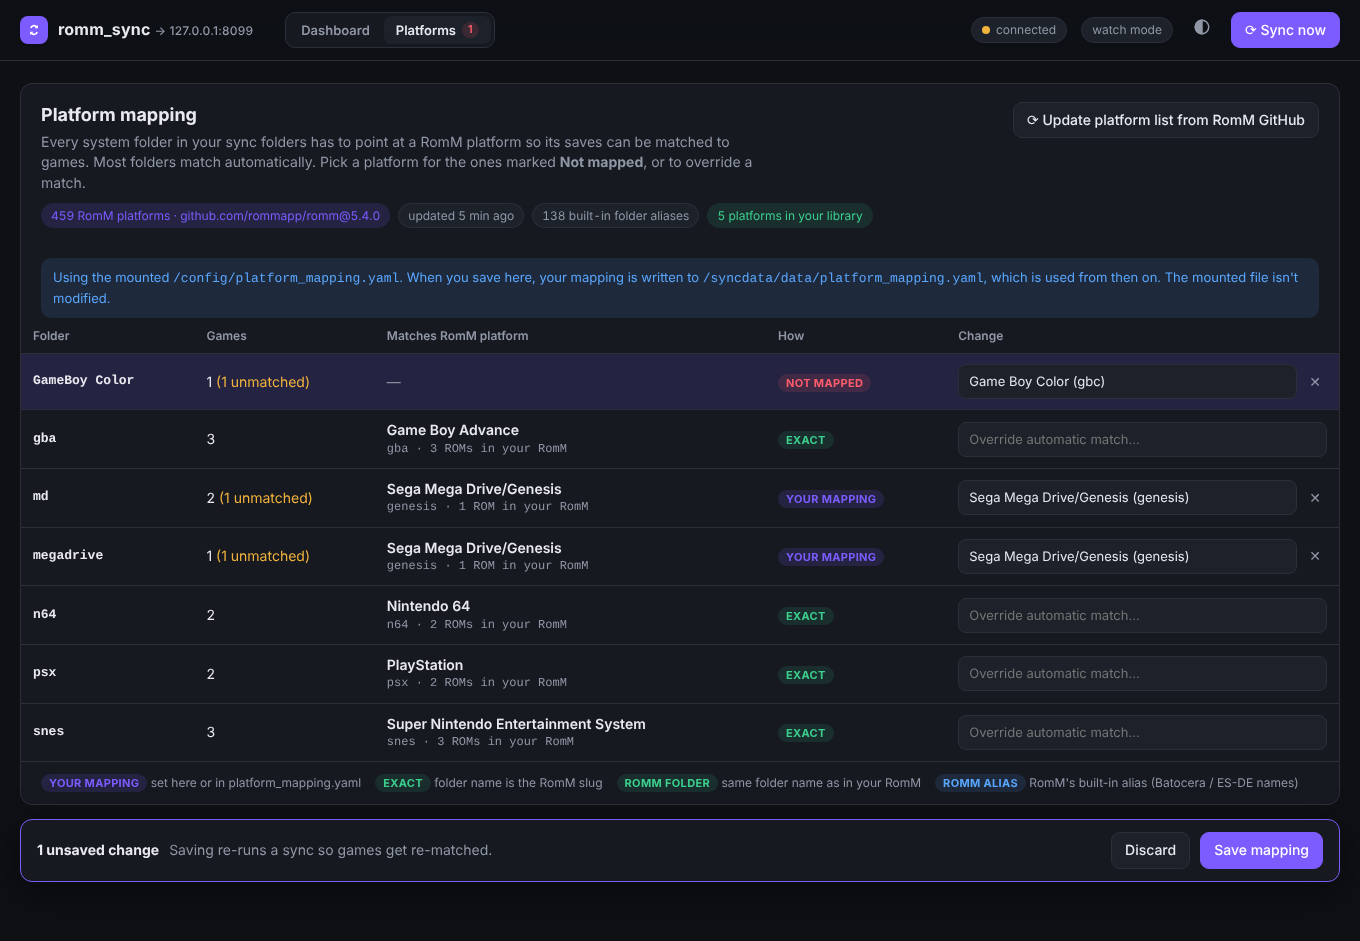
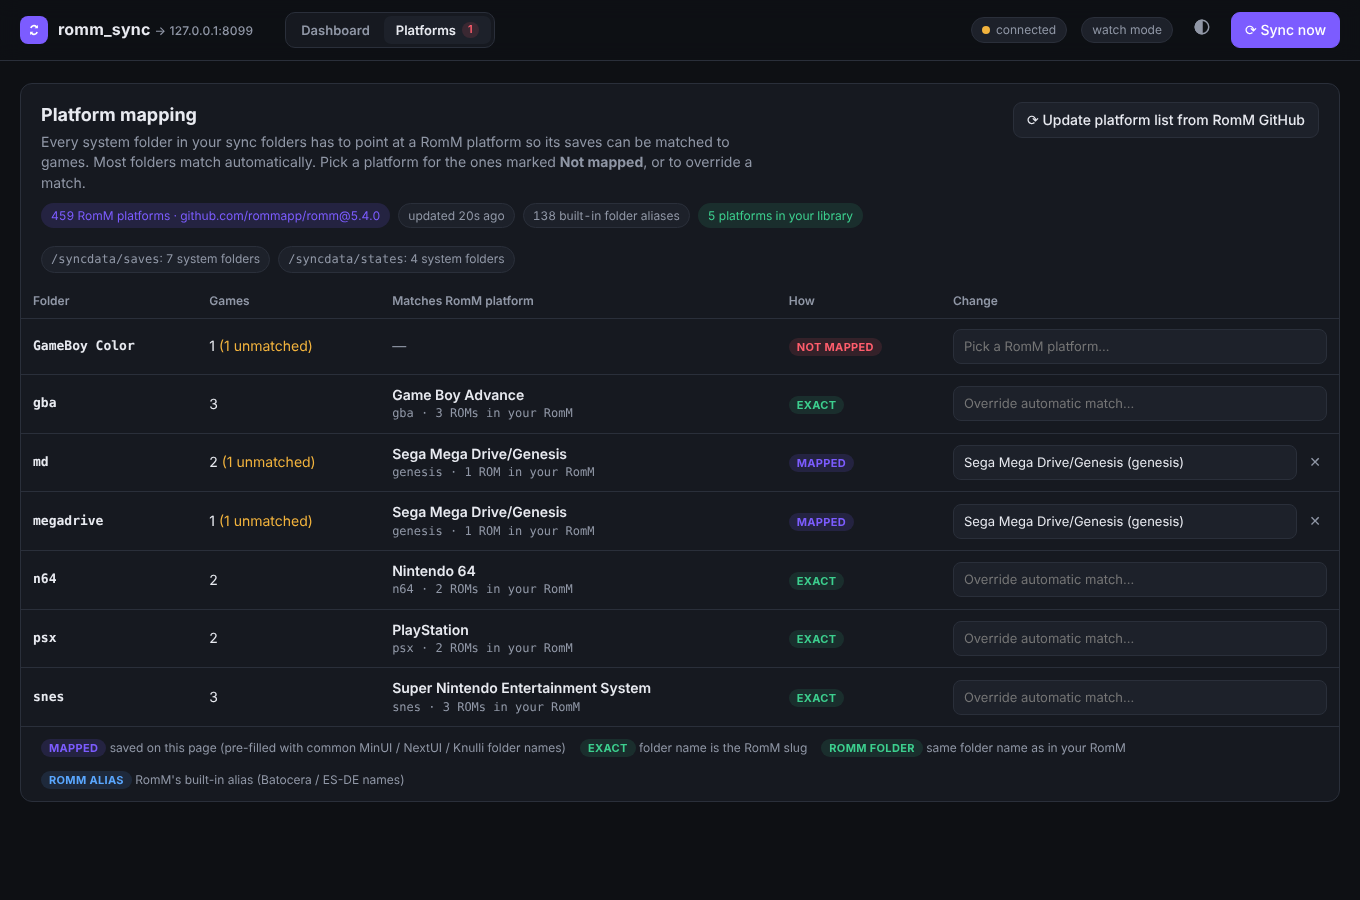
Manage platform mapping only in the UI, pre-filled from the built-in defaults
- Seed the saved mapping on first start (2.1.x mapping > mounted file > built-in defaults)
- Store it as platform_mapping.ui.yaml so a Docker-created platform_mapping.yaml folder can't collide
- Remove yaml references from the UI, template and compose files
- Show sync folder contents on the Platforms page and at startup
- Hide the empty save bar; wait for the first platform catalog download
- VERSION 2.3.0

Claude-Session: https://claude.ai/code/session_011dFVJ7zQhCDyrQS43g4wte

diff --git a/src/web_static/index.html b/src/web_static/index.html
@@ -24,6 +24,7 @@
   --accent:#6a48f5; --ok:#139a63; --warn:#b97a00; --bad:#d6283b; --info:#1f6fd1; --shadow:0 10px 40px rgba(20,24,40,.15);
 }
 *{box-sizing:border-box}
+[hidden]{display:none!important}
 html,body{margin:0;background:var(--bg);color:var(--text);font:14px/1.45 system-ui,-apple-system,"Segoe UI",Roboto,sans-serif}
 button{font:inherit;color:inherit}
 a{color:var(--accent)}
@@ -325,7 +326,7 @@ html,body{overflow-x:hidden}
         <tbody id="pf-rows"><tr><td colspan="5" class="empty">Loading…</td></tr></tbody>
       </table></div>
       <div class="legend-row">
-        <span><span class="how how-mapping">Your mapping</span> set here or in platform_mapping.yaml</span>
+        <span><span class="how how-mapping">Mapped</span> saved on this page (pre-filled with common MinUI / NextUI / Knulli folder names)</span>
         <span><span class="how how-exact">Exact</span> folder name is the RomM slug</span>
         <span><span class="how how-romm-folder">RomM folder</span> same folder name as in your RomM</span>
         <span><span class="how how-romm-alias">RomM alias</span> RomM's built-in alias (Batocera / ES-DE names)</span>
@@ -675,7 +676,7 @@ function renderActivity(d){
 function render(){ const d = state.data; if(!d) return; renderStatus(d); renderApprovals(); renderSystems(d); renderGames(d); renderActivity(d); }
 
 // ---------- platforms view ----------
-const HOW = {mapping:"Your mapping", exact:"Exact", "romm-folder":"RomM folder", "romm-alias":"RomM alias", none:"Not mapped"};
+const HOW = {mapping:"Mapped", exact:"Exact", "romm-folder":"RomM folder", "romm-alias":"RomM alias", none:"Not mapped"};
 const pf = { data:null, edits:{}, optionsFor:{} };
 function optLabel(p){ return `${p.name} (${p.slug})`; }
 function slugFromInput(v){
@@ -698,8 +699,21 @@ function renderPlatforms(){
     `<span class="chip ok">${lib} platform${lib===1?"":"s"} in your library</span>`,
   ].join("");
   const notes = [];
-  if (d.mapping_error) notes.push(`<div class="notice bad">Your mapping file couldn't be read (${esc(d.mapping_error)}). Saving here writes a fresh one.</div>`);
-  if (!d.using_ui_file && d.mapping_file) notes.push(`<div class="notice" style="background:var(--info-bg);color:var(--info)">Using the mounted <code>${esc(d.mapping_file)}</code>. When you save here, your mapping is written to <code>${esc(d.ui_mapping_file)}</code>, which is used from then on. The mounted file isn't modified.</div>`);
+  if (d.mapping_error) notes.push(`<div class="notice bad">Your saved mapping couldn't be read (${esc(d.mapping_error)}). Saving on this page replaces it.</div>`);
+  const sf = d.sync_folders || [];
+  const sfChips = sf.map(f => {
+    if (!f.exists) return `<span class="chip bad"><code>${esc(f.path)}</code> doesn't exist</span>`;
+    if (f.error) return `<span class="chip bad"><code>${esc(f.path)}</code>: ${esc(f.error)}</span>`;
+    const cls = f.folders.length ? "" : "warn";
+    return `<span class="chip ${cls}"><code>${esc(f.path)}</code>: ${plural(f.folders.length,"system folder")}${f.files?`, ${plural(f.files,"loose file")}`:""}</span>`;
+  }).join("");
+  if (sf.length) notes.push(`<div class="pf-meta" style="margin:0 0 10px">${sfChips}</div>`);
+  if (!d.folders.length) {
+    const loose = sf.some(f => f.files > 0);
+    notes.push(`<div class="notice">No system folders were found inside your sync folders. Saves need to be organised one folder per system, e.g. <code>${esc((sf[0]||{}).path||"/syncdata/saves")}/snes/Game.srm</code>.
+      ${loose ? "Files were found directly in the sync folder, without a system subfolder; those can't be matched to a platform." :
+        "The folder looks empty from inside the container, which usually means the host path mapped to it is wrong (Docker creates an empty folder when a host path doesn't exist). Check the <b>Saves folder</b> / <b>States folder</b> paths in the container settings."}</div>`);
+  }
   $("#pf-notices").innerHTML = notes.join("");
 
   $("#pf-options").innerHTML = d.platforms.map(p => `<option value="${esc(optLabel(p))}">${p.in_library?"★ in your RomM · "+p.rom_count+" ROMs":""}</option>`).join("");

diff --git a/src/platforms.py b/src/platforms.py
@@ -158,22 +158,87 @@ def ensure_catalog(romm_version: Optional[str] = None, force: bool = False) -> d
 
 # region mapping file
 def ui_mapping_file() -> Path:
+    # Deliberately NOT "platform_mapping.yaml": the Unraid template's default host path for the mounted
+    # mapping file is inside the appdata folder that is also /data. If that file was missing, Docker
+    # created a *folder* called platform_mapping.yaml there, which would collide with this file.
+    return data_dir() / "platform_mapping.ui.yaml"
+
+
+def legacy_ui_mapping_file() -> Path:
+    """Where 2.1.x saved the UI mapping."""
     return data_dir() / "platform_mapping.yaml"
 
 
-def effective_mapping_path(mounted: Optional[Path]) -> Optional[Path]:
-    """The UI-managed file wins once it exists; the mounted file is the starting point."""
-    ui = ui_mapping_file()
-    if ui.exists():
-        return ui
-    if mounted is not None and mounted.is_file():
-        return mounted
-    if mounted is not None and mounted.is_dir() and not getattr(effective_mapping_path, "_warned", False):
-        effective_mapping_path._warned = True
-        logger.warning(f"{mounted} is a folder, not a file. Docker creates an empty folder when the mapped "
-                       "file doesn't exist on the host. Either download platform_mapping.yaml to that host path "
-                       "(delete the folder first) or remove the mapping and use the dashboard's Platforms page.")
+def _warn_folder_once(path: Path):
+    key = str(path)
+    warned = getattr(_warn_folder_once, "seen", set())
+    if key in warned:
+        return
+    warned.add(key)
+    _warn_folder_once.seen = warned
+    logger.warning(f"{path} is a folder, not a file — Docker creates an empty folder when a mapped file doesn't "
+                   "exist on the host. It's ignored. You can delete it, and either put platform_mapping.yaml there "
+                   "or remove that path mapping and use the dashboard's Platforms page.")
+
+
+def default_mapping_file() -> Path:
+    """Folder-name defaults from the original project (MinUI/NextUI, Knulli…), shipped in the image."""
+    return Path(__file__).resolve().parent.parent / "platform_mapping.yaml"
+
+
+def effective_mapping_path(mounted: Optional[Path] = None) -> Optional[Path]:
+    """The saved mapping (edited on the Platforms page). Older locations are only read until it exists."""
+    for candidate in (ui_mapping_file(), legacy_ui_mapping_file(), mounted):
+        if candidate is None:
+            continue
+        if candidate.is_file():
+            return candidate
+        if candidate.is_dir():
+            _warn_folder_once(candidate)
     return None
+
+
+def ensure_mapping_seeded(mounted: Optional[Path] = None) -> None:
+    """Create the saved mapping on first start, pre-filled from (in order) a mapping saved by 2.1.x,
+    a mounted platform_mapping.yaml, or the defaults shipped with the app."""
+    if ui_mapping_file().is_file():
+        return
+    for source, label in ((legacy_ui_mapping_file(), "previously saved mapping"),
+                          (mounted, "mounted platform_mapping.yaml"),
+                          (default_mapping_file(), "built-in defaults")):
+        if source is not None and source.is_file():
+            try:
+                mapping = load_mapping(source)
+            except Exception as e:
+                logger.warning(f"Couldn't read {source} ({e}); trying the next source.")
+                continue
+            save_mapping(mapping)
+            logger.info(f"Platform mapping created from the {label} ({len(mapping)} platforms). "
+                        "Edit it on the dashboard's Platforms page.")
+            return
+    save_mapping({})
+
+
+def sync_folder_report(sync_dirs: List[Path]) -> List[dict]:
+    """What the app can see in each sync folder — for the Platforms page and the startup log."""
+    out = []
+    for d in sync_dirs:
+        if d is None:
+            continue
+        info = {"path": str(d), "exists": d.exists(), "folders": [], "files": 0, "hidden": []}
+        if d.exists():
+            try:
+                for p in sorted(d.iterdir(), key=lambda x: x.name.lower()):
+                    if p.name.startswith("."):
+                        info["hidden"].append(p.name)
+                    elif p.is_dir():
+                        info["folders"].append(p.name)
+                    else:
+                        info["files"] += 1
+            except PermissionError as e:
+                info["error"] = f"permission denied ({e})"
+        out.append(info)
+    return out
 
 
 def load_mapping(path: Optional[Path]) -> Dict[str, List[str]]:
@@ -189,11 +254,8 @@ def load_mapping(path: Optional[Path]) -> Dict[str, List[str]]:
     return out
 
 
-HEADER = """# Platform mapping for romm_sync — managed by the web UI (Platforms page).
-# <romm platform slug>:
-#   - <local folder name>
-# Folder names are matched case-insensitively. Folders that already match a RomM slug,
-# a folder name in your RomM library, or one of RomM's built-in aliases don't need an entry.
+HEADER = """# romm_sync platform mapping — edit this on the dashboard's Platforms page, not by hand.
+# <romm platform slug>: [<local folder name>, ...]   (folder names are case-insensitive)
 """
 
 

diff --git a/romm_sync.py b/romm_sync.py
@@ -35,8 +35,27 @@ def initialize_romm_sync():
     # RomM's platform list + folder aliases (from GitHub, cached in /data). In the background so a
     # server without internet access never delays startup.
     from src import platforms as platform_catalog
-    threading.Thread(target=lambda: platform_catalog.ensure_catalog(app_cfg.ROMM_CREDENTIALS.version()),
-                     name="platform-catalog", daemon=True).start()
+    catalog_thread = threading.Thread(target=lambda: platform_catalog.ensure_catalog(app_cfg.ROMM_CREDENTIALS.version()),
+                                      name="platform-catalog", daemon=True)
+    catalog_thread.start()
+    if not platform_catalog.get_catalog().get("platforms"):
+        # First run: give the download a moment so the first sync can already use RomM's folder aliases.
+        catalog_thread.join(timeout=30)
+
+    # Say what the sync folders look like from inside the container (most setup problems show up here).
+    for f in platform_catalog.sync_folder_report([app_cfg.SAVE_SYNC_DIR, app_cfg.STATE_SYNC_DIR, app_cfg.ALL_SYNC_DIR]):
+        if not f["exists"]:
+            logger.error(f"Sync folder {f['path']} doesn't exist inside the container.")
+        elif f.get("error"):
+            logger.error(f"Sync folder {f['path']}: {f['error']}")
+        elif not f["folders"]:
+            logger.warning(f"Sync folder {f['path']} has no system subfolders"
+                           + (f" ({f['files']} loose files)." if f["files"] else " — it's empty. Check the host path mapped to it."))
+        else:
+            shown = ", ".join(f["folders"][:12]) + (", …" if len(f["folders"]) > 12 else "")
+            logger.info(f"Sync folder {f['path']}: {len(f['folders'])} system folders ({shown})")
+    platform_catalog.effective_mapping_path(app_cfg.PLATFORM_MAP_PATH)  # warns about folder-instead-of-file mounts
+    platform_catalog.ensure_mapping_seeded(app_cfg.PLATFORM_MAP_PATH)
 
     romm = app_cfg.ROMM_CREDENTIALS
     logger.info(f"Connecting to RomM at {romm.url} (auth: {romm.auth_type})...")

diff --git a/src/library_classes.py b/src/library_classes.py
@@ -43,7 +43,7 @@ class RetroGameServer:
             data = None
 
             if platform_map_path is None:
-                logger.debug("No platform mapping file; using automatic platform matching only.")
+                logger.debug("No saved platform mapping; using automatic platform matching only.")
                 return {}
 
             if platform_map_path is not None:
@@ -537,7 +537,7 @@ class LibraryScanner:
                     game.set_romm_data(matching_game_entry[0])
                 else:
                     # Game not found in ROMM library
-                    logger.warning(f"Could not match {game.name} with platform '{game.platform}' to ROMM server. Check your platform_mapping.yaml and verify that this game is on the ROMM server.")
+                    logger.warning(f"Could not match {game.name} with platform '{game.platform}' to ROMM server. Check this folder on the Platforms page and that the game is in your RomM library.")
                     game.is_matched = False
 
             else:

diff --git a/src/config.py b/src/config.py
@@ -161,7 +161,6 @@ class Config:
 
         # Validate platform mapping file (optional - will fallback to exact matching)
         if (self.PLATFORM_MAP_PATH is not None) and (not self.PLATFORM_MAP_PATH.exists()):
-            logger.warning(f"Platform mapping file not found: {self.PLATFORM_MAP_PATH}. Will use exact platform slug matching only.")
             self.PLATFORM_MAP_PATH = None  # this allows NO platform map path
         
         if errors:

diff --git a/src/web.py b/src/web.py
@@ -236,6 +236,7 @@ def create_app(cfg) -> FastAPI:
             "using_ui_file": path == pf.ui_mapping_file(),
             "mounted_file": str(cfg.PLATFORM_MAP_PATH) if cfg.PLATFORM_MAP_PATH else None,
             "mapping_error": mapping_error,
+            "sync_folders": pf.sync_folder_report(_sync_dirs()),
         }
 
     @app.get("/api/platforms")

diff --git a/README.md b/README.md
@@ -113,14 +113,13 @@ This doesn't download ROMs or manage your library. For devices that can run a re
    - **Saves folder** / **States folder**: your Syncthing folders, e.g. `/mnt/user/syncthing/saves`
    - **App data**: `/mnt/user/appdata/romm-sync`
    - **RomM URL** and **RomM API token**
-3. *(Optional)* Download [`platform_mapping.yaml`](platform_mapping.yaml) into `/mnt/user/appdata/romm-sync/`. You can also skip it and map folders on the dashboard's **Platforms** page.
-4. **Apply**, then click the container icon → **WebUI**.
+3. **Apply**, then click the container icon → **WebUI**.
 
 If your saves and states live in **one** folder: switch to **Advanced View**, remove the States folder path and the `SAVE_SYNC_FOLDER` / `STATE_SYNC_FOLDER` variables, change the Saves folder's container path to `/syncdata`, and add a variable `ALL_SYNC_FOLDER` = `/syncdata`.
 
 ## Docker Compose
 
-Download `docker-compose.yml`, `.env.example` and `platform_mapping.yaml` to a folder, edit `.env.example` (see below), then:
+Download `docker-compose.yml` and `.env.example` to a folder, edit `.env.example` (see below), then:
 
 ```bash
 docker compose up -d
@@ -220,20 +219,14 @@ Each system folder in your sync folders (`snes`, `md`, `Nintendo 64`, …) has t
 
 Folders are resolved in this order, and most never need a mapping:
 
-1. **Your mapping**: chosen on the Platforms page (or in `platform_mapping.yaml`)
+1. **Mapped**: chosen on the Platforms page (pre-filled with common folder names)
 2. **Exact**: the folder name is a RomM platform slug (`snes`, `gba`, `n64`…)
 3. **RomM folder**: the folder has the same name as that platform's folder in *your* RomM library
 4. **RomM alias**: one of RomM's built-in folder aliases for Batocera / RetroBat / ES-DE names (`megadrive`, `amstradcpc`, `atarilynx`…)
 
 **Where the platform list comes from:** the full list of platforms RomM supports (459 at the time of writing) and RomM's folder aliases are downloaded from GitHub. Slugs and aliases come from [`rommapp/romm`](https://github.com/rommapp/romm), fetched at the tag that matches your RomM server's version when that tag exists, with display names from [`rommapp/docs`](https://github.com/rommapp/docs). The list is cached in `/data/romm_platforms.json` and refreshed weekly, or whenever you click **Update platform list from RomM GitHub**. If GitHub can't be reached, the cached list is used. In the picker, platforms that are already in your RomM library are listed first.
 
-**The mapping file:** saving on the Platforms page writes `/data/platform_mapping.yaml`. If you also mount a `platform_mapping.yaml` (the original setup), it's used until you first save in the UI. After that it's only the starting point and is never modified. The format is unchanged:
-```yaml
-genesis:        # RomM platform slug
-  - md          # your folder names (case-insensitive)
-  - megadrive
-```
-The bundled [`platform_mapping.yaml`](platform_mapping.yaml) (from the original project) covers common MinUI/NextUI and Knulli folder names. With the Platforms page it's optional.
+**Starting point:** on first start the mapping is pre-filled with the common MinUI/NextUI and Knulli folder names from the original project (for example `md` and `megadrive` → Sega Mega Drive/Genesis, `sfc` → SNES). After that you manage it only on the Platforms page. Remove an entry with ✕ to fall back to automatic matching. It's stored in `/data`, so it survives updates.
 
 See https://docs.romm.app/latest/Platforms-and-Players/Supported-Platforms/ for RomM's supported platforms.
 

diff --git a/CHANGELOG.md b/CHANGELOG.md
@@ -1,5 +1,19 @@
 # Changelog
 
+## 2.3.0 — mapping lives in the UI
+
+### Changed
+- The platform mapping is managed only on the Platforms page. On first start it's pre-filled with the original project's folder-name defaults (or a mapping you saved or mounted before), and no file needs to be mounted. The Unraid template and compose files no longer mount `platform_mapping.yaml`.
+- The interface no longer refers to `platform_mapping.yaml`. "Your mapping" is now labelled **Mapped**.
+
+### Fixed
+- The saved mapping no longer collides with a `platform_mapping.yaml` *folder* that Docker creates in the appdata folder when the mapped file is missing (it's now stored as `platform_mapping.ui.yaml`).
+- The "unsaved changes" bar no longer shows when there are no changes.
+- On first install, the first sync waits briefly for RomM's folder aliases so those folders match right away.
+
+### Added
+- The Platforms page and the startup log show what each sync folder contains, with a clear explanation when one is empty or missing system subfolders.
+
 ## 2.2.0 — faster library reads, progress logging
 
 ### Changed
